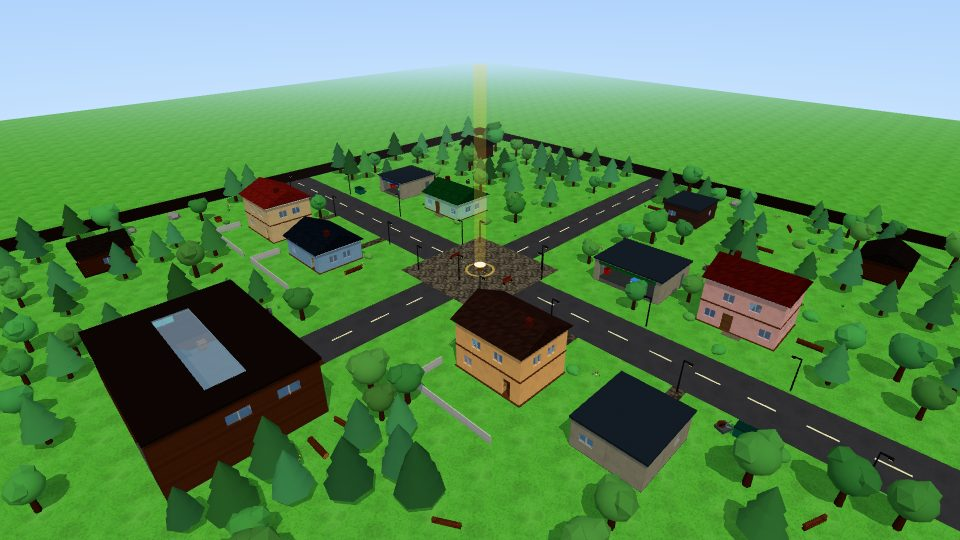
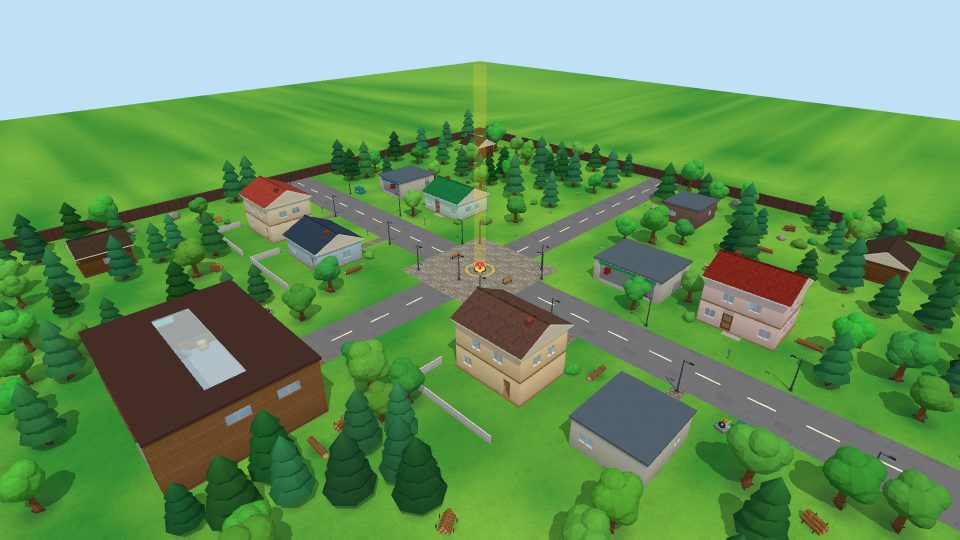
Regenerate map vote thumbnails with the new look; keep preview canvas on top
Claude-Session: https://claude.ai/code/session_01LpvMwZaUzSXy6ENiiKGcb3

diff --git a/client/js/game/previewRender.js b/client/js/game/previewRender.js
@@ -12,6 +12,8 @@ export function renderPreview(mapId, w = 960, h = 540) {
   renderer.shadowMap.enabled = true;
   renderer.shadowMap.type = THREE.PCFSoftShadowMap;
   document.body.style.margin = '0';
+  // on top of whatever the page styles put in the body
+  Object.assign(renderer.domElement.style, { position: 'fixed', left: '0', top: '0', zIndex: '9999' });
   document.body.appendChild(renderer.domElement);
   const scene = new THREE.Scene();
   const env = setupEnvironment(scene, map, { quality: 'high', renderer, far: 600, fogScale: 2.2 });
